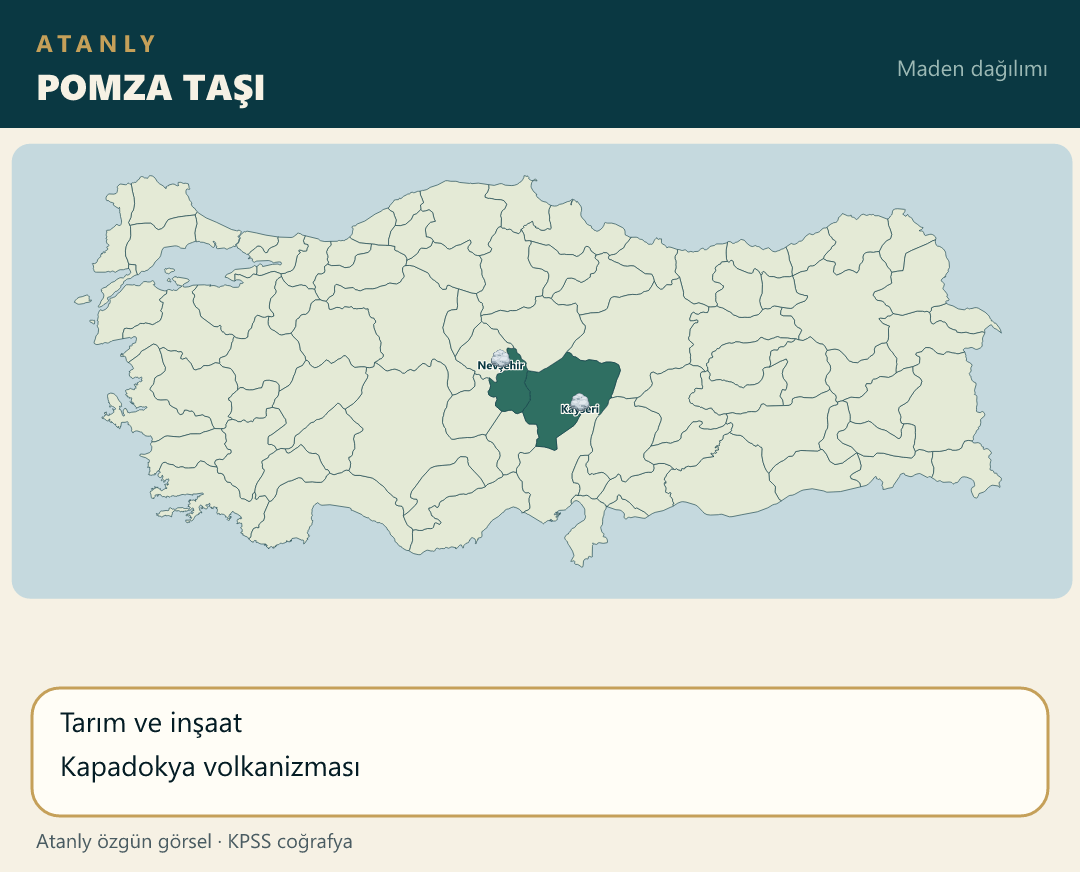
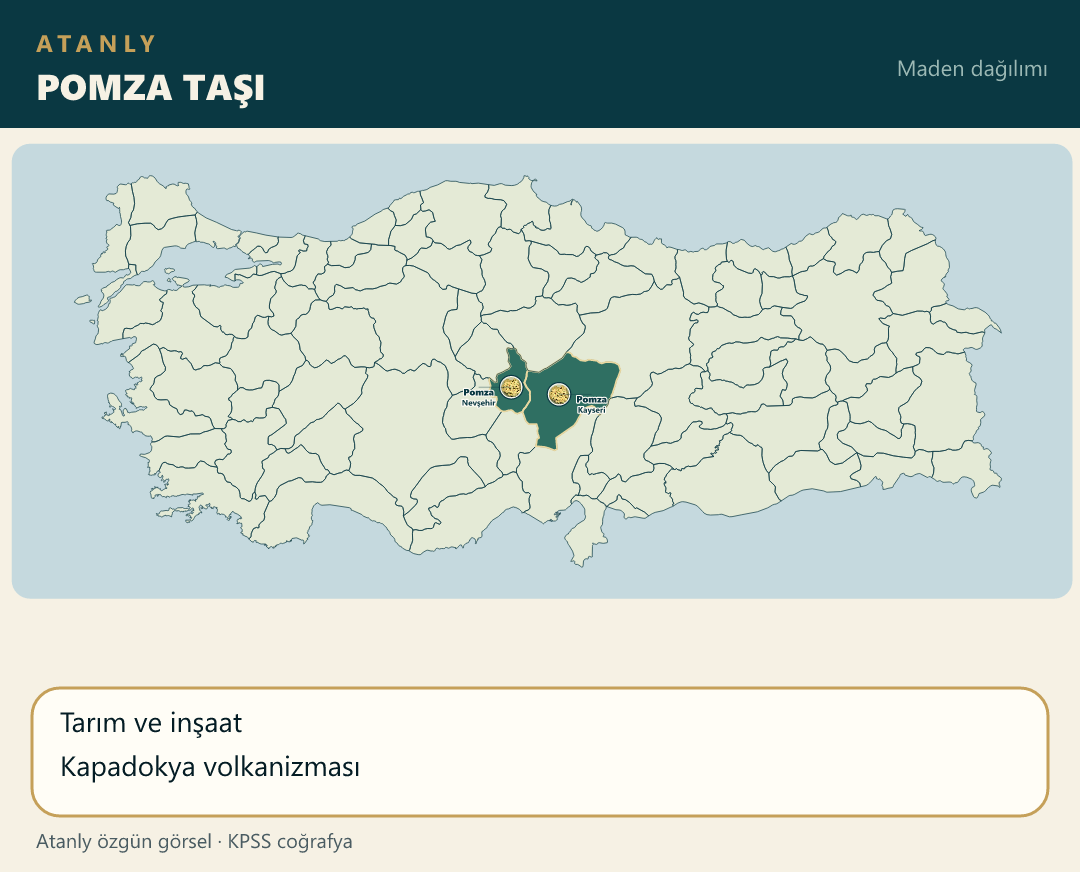
Place the pumice photo on Nevsehir and Kayseri land-center pins.

diff --git a/scripts/build-atanly-maps.js b/scripts/build-atanly-maps.js
@@ -486,7 +486,7 @@ function topicIcon(file) {
         madenkrom: "chrome", madenbarit: "barite", madenbor: "boron", madenmermer: "marble",
         madenfosfat: "phosphate", madenasbest: "asbestos", madentrona: "salt", madenaltin: "gold",
         madenuranyum: "uranium", madentoryum: "uranium", madenciva: "mercury", madentuz: "salt",
-        madenperlit: "perlite", madenpomza: "rock", madenkukurt: "sulfur", madenmanganez: "manganese",
+        madenperlit: "perlite", madenpomza: "pumice", madenkukurt: "sulfur", madenmanganez: "manganese",
         madenkursun: "lead", madenoltu: "jet", madenlule: "lule", madenvolfram: "tungsten",
         madenfeldspat: "feldspar", madenzimpara: "emery", madenetiket: "ore"
     };
@@ -1083,7 +1083,11 @@ function main() {
                 { il: "Erzurum", ldx: 32, ldy: 8 }
             ],
             facts: ["Volkanik, camsı yapı", "Gıda, inşaat, boya, deterjan"] },
-        { file: "maden_pomza.png", title: "POMZA TAŞI", iller: ["Nevşehir", "Kayseri"],
+        { file: "maden_pomza.png", title: "POMZA TAŞI", urun: "Pomza",
+            noktalar: [
+                { il: "Nevşehir", ldx: -32, ldy: 8 },
+                { il: "Kayseri", ldx: 32, ldy: 8 }
+            ],
             facts: ["Tarım ve inşaat", "Kapadokya volkanizması"] },
         { file: "maden_kukurt.png", title: "KÜKÜRT", urun: "Kükürt",
             noktalar: [

diff --git a/notlar/cografya-21-not.js b/notlar/cografya-21-not.js
@@ -2,7 +2,7 @@
 (function () {
     function harita(src, alt) {
         return '<div class="mt-4 overflow-hidden rounded-xl border border-blue-200 dark:border-blue-700/50 bg-white dark:bg-slate-800 p-2">' +
-            '<img src="./src/img/' + src + '?v=32" alt="' + alt + ' Haritası" class="w-full h-auto rounded-lg object-contain" loading="lazy">' +
+            '<img src="./src/img/' + src + '?v=33" alt="' + alt + ' Haritası" class="w-full h-auto rounded-lg object-contain" loading="lazy">' +
             "</div>";
     }
 

diff --git a/index.html b/index.html
@@ -119,7 +119,7 @@
     <script src="notlar/cografya-18-not.js?v=17"></script>
     <script src="notlar/cografya-19-not.js?v=25"></script>
     <script src="notlar/cografya-20-not.js?v=1"></script>
-    <script src="notlar/cografya-21-not.js?v=25"></script>
+    <script src="notlar/cografya-21-not.js?v=26"></script>
     <script src="notlar/cografya-22-not.js?v=1"></script>
     <script src="notlar/cografya-23-not.js?v=1"></script>
     <script src="notlar/cografya-24-not.js?v=1"></script>
